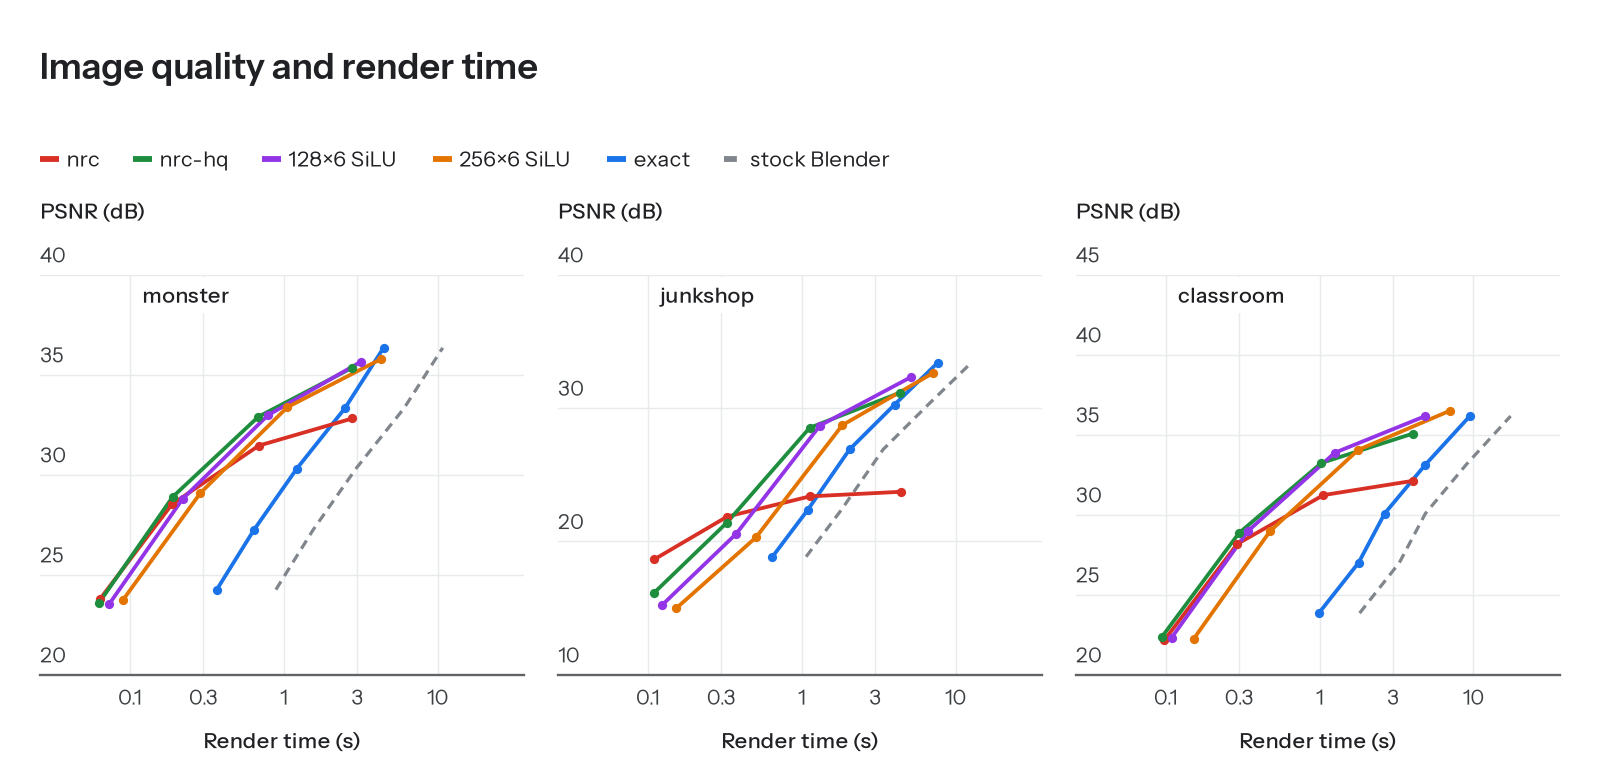
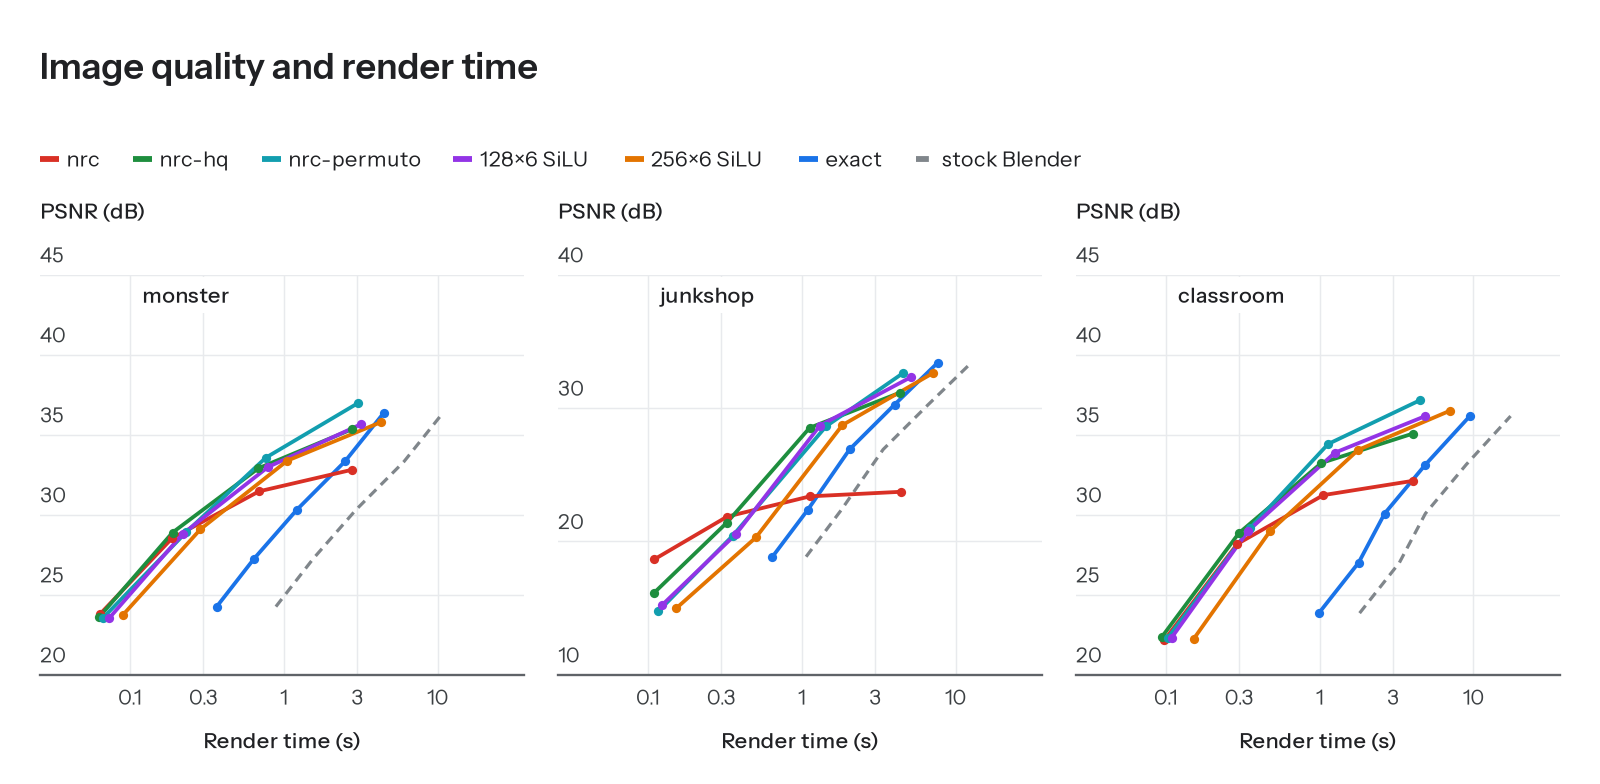
Docs: nrc-permuto in the results, the images-per-second table, the quality-time figure and RECIPE section 5
Measured from this repository on one H100 node each: 46,384.6 samples per minute (n = 6), gate 38.30, 34.24 and
38.09 dB; 8.75, 3.61 and 6.48 images per second at the 32-spp bar (24, 40 and 24 spp). RECIPE section 5 explains
the lattice, why the direction belongs in the grid, the cost, and the bias and variance trade-off at the bar.

diff --git a/RECIPE.md b/RECIPE.md
@@ -36,7 +36,7 @@ The gate changed several times on the last day. From late morning until 19:00 ET
 Run the commands from the repository root. `$W` is one work directory; every later step and `slurm/repro.sbatch` expect this layout in it. The pinned source is Blender tag v5.3.0, commit `02f0899d78e374b63e7181d9061e1f7ab03419cc`.
 
 ```bash
-scripts/fetch.sh $W                           # blender/ blender-5.3.0-linux-x64/ bench/ bakes/ bakes_hq/
+scripts/fetch.sh $W                           # blender/ blender-5.3.0-linux-x64/ bench/ bakes/ bakes_hq/ bakes_permuto/
 scripts/build_host.sh $W/blender $W/host      # Blender + patches/host.diff -> host/install
 scripts/build_engine.sh $W/engine             # tiny-cuda-nn + nrc/ -> engine/libcycles_nrc.so
 
@@ -118,7 +118,7 @@ Why the cache passes now and failed before: its error is a smooth bias, the mons
 
 ### nrc-hq: the same cache, baked offline
 
-`nrc-hq` is the `nrc` configuration with a second set of caches: the same model, engine, cubins and host, run with `BAKES=$W/bakes_hq`. The caches are on Hugging Face, `wchai/cycles-h100-nrc-bake`, `nrc_hq/<scene>_t24/bake_c0.nrc`; `configs/bakes_hq.sha256` holds their hashes, and `scripts/fetch.sh` fetches both sets.
+`nrc-hq` is the `nrc` configuration with a second set of caches: the same model, engine, cubins and host, run with `BAKES=$W/bakes_hq`. The caches are on Hugging Face, `wchai/cycles-h100-nrc-bake`, `nrc_hq/<scene>_t24/bake_c0.nrc`; `configs/bakes_hq.sha256` holds their hashes, and `scripts/fetch.sh` fetches them with the other sets.
 
 `nrc/bake/dump.sh` renders the 9 exact renders of the production bake again (seeds 61-69, 2048 spp, 25% of the paths train) and writes the training records of every engine call to disk: about 5.9, 11.1 and 17.7 billion records, 240, 455 and 725 GB, for monster, junkshop and classroom. `nrc/bake/stream/bake_stream.py` then trains on them in PyTorch, and `nrc/bake/calibrate.sh` fits the scale as for any bake.
 
@@ -160,6 +160,60 @@ With the same schedule and model, shuffling the records gives 2.7, 5.4 and 4.1 d
 
 At low sample counts the effect reverses on junkshop. At 32 spp the call-ordered caches score 20.6 to 21.7 dB, the shuffled one 18.0 dB and production 21.0 dB. The reason is not known.
 
+### nrc-permuto: the outgoing direction inside the grid
+
+`nrc-permuto` replaces the hash grid on position by a permutohedral lattice grid on position and outgoing direction. It runs the `nrc` host and cubins with engine `infer` of the same library: `NRC_CONFIG=nrc/configs/run_infer.json BAKES=$W/bakes_permuto`. The caches are on Hugging Face, `wchai/cycles-h100-nrc-bake`, `nrc_permuto/<scene>_t24/bake_c0.nrc`; `configs/bakes_permuto.sha256` holds their hashes.
+
+A permutohedral lattice tiles d-dimensional space with simplices, so a point is interpolated from the d + 1 vertices of its simplex instead of the 2^d corners of a cube. A grid encoding on it reads d + 1 table rows per level, 6 in five dimensions against 32 for a cubic grid, so a grid over position and direction stays affordable.
+
+| | |
+|---|---|
+| encoding | permutohedral lattice on position and outgoing direction: 5 levels x 8 features, 2^23 entries per level, resolution 128 to 2048 on position and 4 to 64 on direction; one-blob on normal and roughness, identity on the albedos; 58 inputs padded with ones to 64 |
+| model, data, optimizer | as `nrc-hq`: 64 wide, 5 hidden layers, ReLU; every record used once; the same schedule and weight average |
+| training | `bake_stream.py --enc permuto5`: 208, 391 and 639 s on one H100, 0.76 times the hash grid's 275, 514 and 852 s; the table gradient is one fp32 vector atomic per lattice vertex |
+| calibration | c0 scales 1.05, 1.00 and 1.11, folded into the output layer (`set_scale.py`) |
+| cost | 0.67 GB per scene |
+| inference | engine `infer`, fp16 wgmma: 0.82 ns per query against 0.72 ns for the hash grid, on 2^20 monster queries in render order; the lattice pass is 78% of it |
+
+Why the direction belongs in the grid: in the hash cache the direction enters only through 4 one-blob bins per angle, so one small MLP must model how the radiance of every surface point changes with direction. In the lattice each region of position and direction has its own features. With the same trainer and the same records, the held-out cell-scale relative error falls from 0.0059, 0.0024 and 0.0094 for the hash grid to 0.0018, 0.0006 and 0.0063. A lattice on position alone is no better than the hash grid: on monster after 2 billion records it reaches 0.013 to 0.025 against 0.016 to 0.020. So the gain comes from the direction, not from the lattice.
+
+Results on one H100 SXM:
+
+| | monster | junkshop | classroom | total |
+|---|---|---|---|---|
+| samples per minute, `nrc-permuto` | 19,087 | 13,318 | 13,979 | 46,385 |
+| samples per minute, `nrc-hq` | 20,377 | 13,434 | 15,187 | 48,997 |
+| gate PSNR, `nrc-permuto` | 38.30 dB | 34.24 dB | 38.09 dB | |
+| gate luminance, `nrc-permuto` | -0.12% | +0.30% | -0.10% | |
+| gate PSNR, `nrc-hq` | 36.17 dB | 32.00 dB | 35.63 dB | |
+| 1,024 samples, `nrc-permuto` | 37.0 dB | 32.6 dB | 37.1 dB | |
+| 1,024 samples, `nrc-hq` | 35.3 dB | 31.2 dB | 35.1 dB | |
+| images per second at the 32-spp bar, `nrc-permuto` | 8.75, 24 spp | 3.61, 40 spp | 6.48, 24 spp | 18.8 |
+| images per second at the 32-spp bar, `nrc-hq` | 12.7, 20 spp | 5.32, 32 spp | 6.80, 24 spp | 24.8 |
+
+Samples per minute are medians of six official measurements on one 8-GPU node (`slurm/repro.sbatch <repo> $W nrc-permuto`); the `nrc-hq` row is from another node. The other rows are seed-0 renders, three per point, with the median render time. `nrc-permuto` passes the gate on all three scenes, 2.1 to 2.5 dB above `nrc-hq`, and is above `nrc-hq` at every sample count from 256 up. At 1,024 samples it matches or beats the 256×6 SiLU cache in 0.6 to 0.7 times its render time, and it is 1.4 times sooner than `exact` on junkshop; on monster and classroom it is above `exact` at 512 samples, which takes 4.45 and 9.47 s against 3.05 and 4.47 s.
+
+It costs 5.3% of the samples per minute against `nrc-hq`, and it is slower at the 32-spp bar: 6.4 times stock Blender in images per second, against 8.4 for `nrc-hq` and 9.7 for `nrc`. On junkshop it needs 40 samples to reach the bar, against 32 for `nrc-hq` and 20 for `nrc`. Renders this short carry stalls of 0.1 to 0.5 s in some repeats: the fastest of the three renders gives 10.7, 4.16 and 6.68 images per second, 21.6 in total.
+
+The reason is variance, not bias. Over 8 seeds at 32 spp, with the gate's display mapping, per-pixel error splits into squared bias and variance. These renders used monster and junkshop cubins that read the seed; the `nrc` cubins fold it to 0.
+
+| scene | configuration | PSNR per image | bias² | variance |
+|---|---|---|---|---|
+| junkshop | `exact` | 18.84 dB | 0.0017 | 0.0114 |
+| junkshop | `nrc` | 20.45 dB | 0.0048 | 0.0042 |
+| junkshop | `nrc-hq` | 19.45 dB | 0.0021 | 0.0093 |
+| junkshop | `nrc-permuto` | 18.37 dB | 0.0029 | 0.0116 |
+| monster | `exact` | 24.25 dB | 0.00031 | 0.0034 |
+| monster | `nrc` | 26.02 dB | 0.00073 | 0.0018 |
+| monster | `nrc-hq` | 25.80 dB | 0.00052 | 0.0021 |
+| monster | `nrc-permuto` | 25.79 dB | 0.00043 | 0.0022 |
+
+A cache ends each path at its first hit, so the samples of one pixel differ only in where they land inside it. A blurry cache returns nearly the same value for all of them: `nrc` has 2.7 times less variance than `exact` on junkshop, and its bias is the largest. An accurate cache keeps the detail inside the pixel, such as the brick wall on junkshop, so its variance stays at the exact level, and at 32 spp variance dominates. Caches that cannot see the normal and the albedos have the same variance on all three scenes, so this detail is stored by position, not passed in through those inputs. At high sample counts the variance averages out and the smaller bias wins.
+
+The public trainer reproduces the monster cache. Baked again with `bake_stream.py --enc permuto5` from the same dumps in 207 s and folded with the published scale, it scores 38.38 dB and -0.23% on the gate, against 38.30 dB and -0.12%; its outputs differ from the published cache's by 8% relative L2 on 2^20 queries, the spread between two trainings. Junkshop and classroom were not baked again.
+
+The new library runs `nrc` as before. On one node, three official measurements each, the previous library scored 49,342 and the new one 49,339 samples per minute; the gate returns the same PSNR and luminance; on 2^20 queries through the `.so`, the outputs of the three hash caches are bit-identical, and so are the outputs of the three permuto caches against the experimental engine that first ran them. The `nrc` gate images differ from the previous library's by a relative L2 of 4e-8 to 5e-6, as two renders with the same library do.
+
 ## 6. Reproduce
 
 ```bash
@@ -170,6 +224,8 @@ CUDA_VISIBLE_DEVICES=0 scripts/run.sh nrc check out/nrc          # 4096-spp gate
 scripts/make_reference.sh $W/blender-5.3.0-linux-x64 ref 0    # reference + bar, ~2 GPU-h
 python3 scripts/gate.py ref out/nrc
 ```
+
+For `nrc-hq`, set `BAKES=$W/bakes_hq`. For `nrc-permuto`, set `BAKES=$W/bakes_permuto NRC_CONFIG=nrc/configs/run_infer.json`; from this repository it scores 46,384.6 (19,087.0, 13,318.4 and 13,979.2) and returns the gate of section 5 exactly.
 
 The `exact` configuration needs no engine, bake or reference. Its check is the image difference against the official binary, measured against the seed-to-seed noise floor:
 
@@ -183,7 +239,7 @@ BLENDER=$STOCK CUDA_VISIBLE_DEVICES=0 SEED=1 scripts/run.sh stock check out/stoc
 python3 scripts/identity.py out/stock0 out/stock1 out/exact     # project: ratios 1.4e-3 to 2.8e-3
 ```
 
-On Slurm, `sbatch slurm/repro.sbatch <repo> $W [nrc|exact]` runs six measurements and the check images of one configuration on one 8-GPU node and writes them to `$W/runs/<job id>`.
+On Slurm, `sbatch slurm/repro.sbatch <repo> $W [nrc|nrc-permuto|exact]` runs six measurements and the check images of one configuration on one 8-GPU node and writes them to `$W/runs/<job id>`.
 
 Reproduction from this repository, with the host, the cubins and the engine built by the scripts above and the public bakes:
 

diff --git a/README.md b/README.md
@@ -19,8 +19,9 @@ Exact per-scene kernel specialization gives the first 2.0 times. A per-scene bak
 | `exact`: specialized kernels, no approximation | 6,706 | 4,050 | 3,356 | 14,106 | equal to stock up to floating-point rounding |
 | **`nrc`: + baked neural radiance cache** | **20,275** | **13,319** | **15,047** | **48,641** | approximate, passes the image gate |
 | `nrc-hq`: `nrc` with the offline-baked caches | 20,377 | 13,434 | 15,187 | 48,997 | approximate, passes the image gate |
+| `nrc-permuto`: caches on a lattice over position and direction | 19,087 | 13,318 | 13,979 | 46,385 | approximate, passes the image gate |
 
-One H100 SXM 80 GB, official benchmark protocol. Per-scene values are medians over 6 to 12 three-scene runs; totals are as the project reported them, so they can differ from the column sum by a few units. Rebuilt and re-measured from this repository, `nrc` scores 48,721 and passes the same gate, and `exact` scores 14,116 with the same image difference. `nrc-hq` runs the same model, engine and cubins with caches baked offline from the same exact renders; it was measured on another node, so its difference from `nrc` is node spread. Its gate PSNR is 36.17, 32.00 and 35.63 dB, against 33.05, 23.80 and 32.31 dB for `nrc`.
+One H100 SXM 80 GB, official benchmark protocol. Per-scene values are medians over 6 to 12 three-scene runs; totals are as the project reported them, so they can differ from the column sum by a few units. Rebuilt and re-measured from this repository, `nrc` scores 48,721 and passes the same gate, and `exact` scores 14,116 with the same image difference. `nrc-hq` runs the same model, engine and cubins with caches baked offline from the same exact renders; it was measured on another node, so its difference from `nrc` is node spread. Its gate PSNR is 36.17, 32.00 and 35.63 dB, against 33.05, 23.80 and 32.31 dB for `nrc`. `nrc-permuto` puts the outgoing direction into the cache's grid, a permutohedral lattice, and runs it on a second engine in the same library; measured on a third node, its gate PSNR is 38.30, 34.24 and 38.09 dB.
 
 | images per second at the 32-spp bar | monster | junkshop | classroom | total | vs stock |
 |---|---|---|---|---|---|
@@ -28,6 +29,7 @@ One H100 SXM 80 GB, official benchmark protocol. Per-scene values are medians ov
 | `exact`, 32 spp | 2.68 | 1.57 | 1.07 | 5.32 | 1.8x |
 | **`nrc`, 20 / 20 / 24 spp** | **13.5** | **7.52** | **7.58** | **28.6** | **9.7x** |
 | `nrc-hq`, 20 / 32 / 24 spp | 12.7 | 5.32 | 6.80 | 24.8 | 8.4x |
+| `nrc-permuto`, 24 / 40 / 24 spp | 8.75 | 3.61 | 6.48 | 18.8 | 6.4x |
 
 A sample of `nrc` does less work than a sample of stock Blender, so this table counts images instead: how many images per second reach the PSNR of an exact 32-spp render against the 65,536-spp reference, the gate's bar. Each value is one over the median render time of three seed-0 renders at the fewest samples that clear the bar, without scene load; `nrc`'s mean luminance at those counts is off by 2 to 8%.
 
@@ -45,13 +47,15 @@ A sample of `nrc` does less work than a sample of stock Blender, so this table c
 
 ## Samples per minute and image quality
 
-![PSNR against render time for four nrc caches, exact and stock Blender on the three scenes](assets/quality_time.png)
+![PSNR against render time for five nrc caches, exact and stock Blender on the three scenes](assets/quality_time.png)
 
-<sub>Seed-0 renders on one H100, PSNR against the 65,536-spp exact reference. The cache lines have points at 16, 64, 256 and 1,024 samples; `exact` at 32 to 512. `nrc` is the production cache, `nrc-hq` the offline-baked one. 128×6 SiLU and 256×6 SiLU are caches with wider MLPs; they ran on an experimental wide-MLP inference engine that is not in this repository. Render time is Cycles' render time without scene load, the median of three renders for every cache point and one render for `exact`. Stock Blender's time is the exact build's, scaled by the ratio of their samples per minute.</sub>
+<sub>Seed-0 renders on one H100, PSNR against the 65,536-spp exact reference. The cache lines have points at 16, 64, 256 and 1,024 samples; `exact` at 32 to 512. `nrc` is the production cache, `nrc-hq` the offline-baked one, `nrc-permuto` the lattice cache. 128×6 SiLU and 256×6 SiLU are caches with wider MLPs on the same engine as `nrc-permuto`; they are not published. Render time is Cycles' render time without scene load, the median of three renders for every cache point and one render for `exact`. Stock Blender's time is the exact build's, scaled by the ratio of their samples per minute.</sub>
 
 The benchmark counts samples, and a cached sample does far less work than an exact one, so samples per minute overstate how fast a usable image appears. Measured as image quality against render time, `nrc` clears the PSNR bar at 20 to 24 samples, in 0.07 to 0.13 s: 4.8 to 7.1 times sooner than the exact build and 7.4 to 11.4 times sooner than stock Blender, which reach the bar at 32 samples. Its bias caps the quality near 33, 24 and 32 dB, so beyond about 1,000 samples the exact build gets there first and keeps improving; the benchmark score and the gate images both sit in that region. At those sample counts its mean luminance is off by 2 to 8%, past the gate's 0.5% limit, and the 9 to 18 minutes of baking per scene are not counted.
 
 `nrc-hq` lifts that ceiling. At 1,024 samples it reaches 35.3, 31.2 and 35.1 dB, against 32.8, 23.7 and 32.1 dB for `nrc`, and it still gets there 1.3, 1.1 and 1.8 times sooner than the exact build. At 256 samples it is 3.3, 2.5 and 4.9 times sooner. At the 32-sample bar it is slower than `nrc`, mainly on junkshop, which needs 32 samples instead of 20; the three scenes give 24.8 images per second against 28.6. The wider SiLU caches add up to 1.45 dB at 1,024 samples and cost up to 1.7 times the render time.
+
+`nrc-permuto` lifts it further with the same 64-wide network. At 1,024 samples it reaches 37.0, 32.6 and 37.1 dB, at or above the 256×6 SiLU cache in 0.6 to 0.7 times its render time. At the bar it is the slowest of the three published caches: an accurate cache keeps the variation of radiance inside a pixel, so at 32 samples its noise stays at the exact build's level, and junkshop needs 40 samples. The three scenes give 18.8 images per second. RECIPE.md section 5 has the bias and variance split.
 
 ## Reproduce
 
@@ -69,7 +73,7 @@ export CUBINS=$W/nrc_cubins ENGINE=$W/engine/libcycles_nrc.so BAKES=$W/bakes
 CUDA_VISIBLE_DEVICES=0 scripts/run.sh nrc bench out/nrc_1
 ```
 
-For `nrc-hq`, run the same commands with `BAKES=$W/bakes_hq`.
+For `nrc-hq`, run the same commands with `BAKES=$W/bakes_hq`. For `nrc-permuto`, add `BAKES=$W/bakes_permuto NRC_CONFIG=nrc/configs/run_infer.json`.
 
 The `exact` configuration, the image gate, the exactness check and the Slurm job are in [RECIPE.md](RECIPE.md), sections 3 and 6.
 
